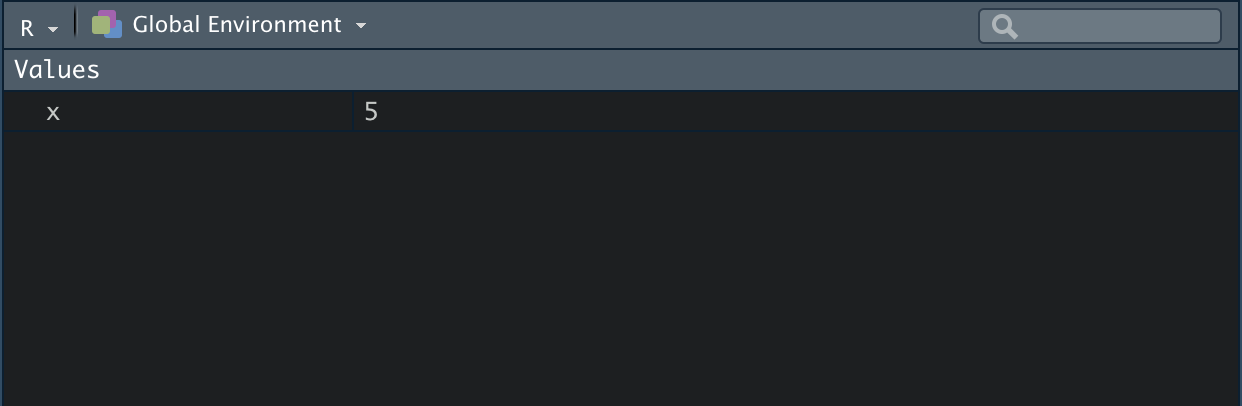
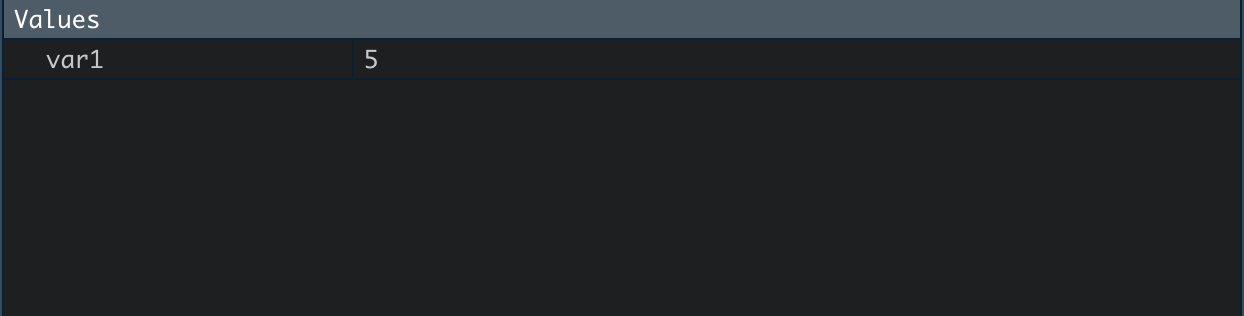
V1.0.5

Changed region(s): [[0.0, 0.0, 1.0, 0.2278], [0.2754, 0.2563, 0.306, 0.2848], [0.0306, 0.2563, 0.0612, 0.2848]]

diff --git a/docs/datenverarbeitung.html b/docs/datenverarbeitung.html
@@ -189,8 +189,8 @@ code span.wa { color: #60a0b0; font-weight: bold; font-style: italic; } /* Warni
 <li class="chapter" data-level="3.3" data-path="datenverarbeitung.html"><a href="datenverarbeitung.html#transformation-und-manipulation-von-daten"><i class="fa fa-check"></i><b>3.3</b> Transformation und Manipulation von Daten</a>
 <ul>
 <li class="chapter" data-level="3.3.1" data-path="datenverarbeitung.html"><a href="datenverarbeitung.html#erster-blick-auf-den-datensatz"><i class="fa fa-check"></i><b>3.3.1</b> Erster Blick auf den Datensatz</a></li>
-<li class="chapter" data-level="3.3.2" data-path="datenverarbeitung.html"><a href="datenverarbeitung.html#datensätze-restrukturieren"><i class="fa fa-check"></i><b>3.3.2</b> Datensätze restrukturieren</a></li>
-<li class="chapter" data-level="3.3.3" data-path="datenverarbeitung.html"><a href="datenverarbeitung.html#pipe-operator"><i class="fa fa-check"></i><b>3.3.3</b> Pipe Operator</a></li>
+<li class="chapter" data-level="3.3.2" data-path="datenverarbeitung.html"><a href="datenverarbeitung.html#pipe-operator"><i class="fa fa-check"></i><b>3.3.2</b> Pipe Operator</a></li>
+<li class="chapter" data-level="3.3.3" data-path="datenverarbeitung.html"><a href="datenverarbeitung.html#datensätze-restrukturieren"><i class="fa fa-check"></i><b>3.3.3</b> Datensätze restrukturieren</a></li>
 <li class="chapter" data-level="3.3.4" data-path="datenverarbeitung.html"><a href="datenverarbeitung.html#daten-transformieren"><i class="fa fa-check"></i><b>3.3.4</b> Daten transformieren</a></li>
 <li class="chapter" data-level="3.3.5" data-path="datenverarbeitung.html"><a href="datenverarbeitung.html#daten-manipulieren"><i class="fa fa-check"></i><b>3.3.5</b> Daten manipulieren</a></li>
 </ul></li>
@@ -244,7 +244,7 @@ allbus2018 &lt;- read_stata(&quot;Datensatz.dta&quot;)
 # SAS
 allbus2018 &lt;- read_sas(&quot;Datensatz.sas&quot;)</code></pre>
 <p><strong>Anmerkung:</strong> Sollten Sie andere Dateiformate nutzen wollen, bieten sich zudem die Packete <code>haven</code>, <code>readxl</code> und <code>readr</code> an.</p>
-<p>Die Funktion <code>read_spss</code> besitzt drei für uns relevante Argumente. Einen Überblick über die möglichen Argumente finden Sie unter: <code>?read_spss</code>.</p>
+<p>Die Funktion <code>read_spss</code> besitzt drei für uns relevante Argumente. Einen Überblick über die möglichen Argumente findet sich unter: <code>?read_spss</code>.</p>
 <ul>
 <li><code>atomic.to.fac</code> = <code>TRUE</code> &gt; Alle Variablen mit beschrifteten Ausprägungsmerkmalen werden zu Faktoren konvertiert. Für uns ist dieses Argument offensichtlich unbrauchbar, da wir viele Items vom Likert-Typ im Allbus 2018 vorfinden und diese als pseudo-metrisch behandeln wollen.</li>
 <li><code>drop.labels</code> = <code>TRUE</code> &gt; Alle Ausprägungsmerkmale ohne Fälle werden gelöscht. Eine nützliche Funktion, sofern wir nicht mit fehlenden Werten arbeiten möchten. Durch <code>read_spss()</code> über das Packet sjlabelled wurden ohnehin alle vormalig fehlenden Werte zu <code>NA</code> konvertiert. So können wir die überflüssigen Ausprägungsmerkmale einfach löschen.</li>
@@ -281,9 +281,13 @@ allbus2018 &lt;- read_sas(&quot;Datensatz.sas&quot;)</code></pre>
 <span id="cb47-6"><a href="datenverarbeitung.html#cb47-6" aria-hidden="true" tabindex="-1"></a></span>
 <span id="cb47-7"><a href="datenverarbeitung.html#cb47-7" aria-hidden="true" tabindex="-1"></a><span class="co">#Ganzer Datensatz</span></span>
 <span id="cb47-8"><a href="datenverarbeitung.html#cb47-8" aria-hidden="true" tabindex="-1"></a><span class="fu">print</span>(allbus2018)</span></code></pre></div>
+<p>Die Anwendung unserer Grundfunktionen hat gegenwärtig noch den großen Nachteil, dass R versucht alle Variablen unseres Datensatzes abzubilden. Um das in den Griff zu bekommen, wollen wir uns in den folgenden Kapiteln mit der Datensatztransformation und dann Datenmanipulation beschäftigen.</p>
 </div>
-<div id="datensätze-restrukturieren" class="section level3" number="3.3.2">
-<h3><span class="header-section-number">3.3.2</span> Datensätze restrukturieren</h3>
+<div id="pipe-operator" class="section level3" number="3.3.2">
+<h3><span class="header-section-number">3.3.2</span> Pipe Operator</h3>
+</div>
+<div id="datensätze-restrukturieren" class="section level3" number="3.3.3">
+<h3><span class="header-section-number">3.3.3</span> Datensätze restrukturieren</h3>
 <p>R verspricht eine enorme Flexibilität im Umgang mit Daten. Unmittelbar spürbar wird dieser Umstand in der Reorganisation von Datensätzen in neuen Objekten. So wollen wir im ersten Schritt lernen, wie wir die für uns relevanten Daten in einem neuen Datensatz speichern können. Hierfür benötigen wir die folgende Funktionen:</p>
 <table>
 <thead>
@@ -297,7 +301,7 @@ allbus2018 &lt;- read_sas(&quot;Datensatz.sas&quot;)</code></pre>
 <tr class="odd">
 <td align="left">dplyr</td>
 <td align="left">filter()</td>
-<td align="left">Umbenennen von Variablen</td>
+<td align="left">Filtern nach Fällen mit spezifischer Ausprägung</td>
 </tr>
 <tr class="even">
 <td align="left">dplyr</td>
@@ -306,24 +310,16 @@ allbus2018 &lt;- read_sas(&quot;Datensatz.sas&quot;)</code></pre>
 </tr>
 <tr class="odd">
 <td align="left">dplyr</td>
-<td align="left">rename()</td>
-<td align="left">Umbenennen von Variablen</td>
-</tr>
-<tr class="even">
-<td align="left">dplyr</td>
-<td align="left">mutate()</td>
-<td align="left">Erstellen und verändern von vorhandenen Variablen</td>
-</tr>
-<tr class="odd">
-<td align="left">dplyr</td>
 <td align="left">arrange()</td>
 <td align="left">Sortiert Datensatz nach bestimmter Variable</td>
 </tr>
+<tr class="even">
+<td align="left">dplyr</td>
+<td align="left">distinct()</td>
+<td align="left">Auswahl einzigartiger Werte</td>
+</tr>
 </tbody>
 </table>
-</div>
-<div id="pipe-operator" class="section level3" number="3.3.3">
-<h3><span class="header-section-number">3.3.3</span> Pipe Operator</h3>
 </div>
 <div id="daten-transformieren" class="section level3" number="3.3.4">
 <h3><span class="header-section-number">3.3.4</span> Daten transformieren</h3>
@@ -347,6 +343,16 @@ allbus2018 &lt;- read_sas(&quot;Datensatz.sas&quot;)</code></pre>
 <tbody>
 <tr class="odd">
 <td align="left">dplyr</td>
+<td align="left">rename()</td>
+<td align="left">Umbenennen von Variablen</td>
+</tr>
+<tr class="even">
+<td align="left">dplyr</td>
+<td align="left">mutate()</td>
+<td align="left">Erstellen und verändern von vorhandenen Variablen</td>
+</tr>
+<tr class="odd">
+<td align="left">dplyr</td>
 <td align="left">group_by()</td>
 <td align="left">Erstellt Gruppen (Teilmengen)</td>
 </tr>
@@ -357,55 +363,50 @@ allbus2018 &lt;- read_sas(&quot;Datensatz.sas&quot;)</code></pre>
 </tr>
 <tr class="odd">
 <td align="left">dplyr</td>
-<td align="left">distinct()</td>
-<td align="left">Auswahl einzigartiger Werte</td>
+<td align="left">case_when()</td>
+<td align="left">Vektorisierter if-Befehl</td>
 </tr>
 <tr class="even">
-<td align="left">dplyr</td>
-<td align="left">case_when()</td>
-<td align="left">Vektorisierter if_else Befehl</td>
-</tr>
-<tr class="odd">
 <td align="left">sjmisc</td>
 <td align="left">rec()</td>
 <td align="left">Rekodierung von Variablen</td>
 </tr>
-<tr class="even">
+<tr class="odd">
 <td align="left">sjmisc</td>
 <td align="left">std()</td>
 <td align="left">Z-Standardisierung von Variablen</td>
 </tr>
-<tr class="odd">
+<tr class="even">
 <td align="left">sjmisc</td>
 <td align="left">center()</td>
 <td align="left">Zentrierung von Variablen am Mittelwert</td>
 </tr>
-<tr class="even">
+<tr class="odd">
 <td align="left">sjmisc</td>
 <td align="left">split_var()</td>
 <td align="left">Aufspaltung von Variablen in n Gruppen</td>
 </tr>
-<tr class="odd">
+<tr class="even">
 <td align="left">sjmisc</td>
 <td align="left">group_var()</td>
 <td align="left">Aufspaltung von Variablen in Gruppen gleicher Spannweite</td>
 </tr>
-<tr class="even">
+<tr class="odd">
 <td align="left">sjmisc</td>
 <td align="left">row_count()</td>
 <td align="left">Zählung von Zeilenwerten</td>
 </tr>
-<tr class="odd">
+<tr class="even">
 <td align="left">sjmisc</td>
 <td align="left">col_count()</td>
 <td align="left">Zählung von Spaltenweten</td>
 </tr>
-<tr class="even">
+<tr class="odd">
 <td align="left">sjmisc</td>
 <td align="left">row_sums()</td>
 <td align="left">Summe der Zeilenwerte</td>
 </tr>
-<tr class="odd">
+<tr class="even">
 <td align="left">sjmisc</td>
 <td align="left">row_means()</td>
 <td align="left">Mittelwert der Zeilenwerte</td>

diff --git a/docs/rstudio.html b/docs/rstudio.html
@@ -189,8 +189,8 @@ code span.wa { color: #60a0b0; font-weight: bold; font-style: italic; } /* Warni
 <li class="chapter" data-level="3.3" data-path="datenverarbeitung.html"><a href="datenverarbeitung.html#transformation-und-manipulation-von-daten"><i class="fa fa-check"></i><b>3.3</b> Transformation und Manipulation von Daten</a>
 <ul>
 <li class="chapter" data-level="3.3.1" data-path="datenverarbeitung.html"><a href="datenverarbeitung.html#erster-blick-auf-den-datensatz"><i class="fa fa-check"></i><b>3.3.1</b> Erster Blick auf den Datensatz</a></li>
-<li class="chapter" data-level="3.3.2" data-path="datenverarbeitung.html"><a href="datenverarbeitung.html#datensätze-restrukturieren"><i class="fa fa-check"></i><b>3.3.2</b> Datensätze restrukturieren</a></li>
-<li class="chapter" data-level="3.3.3" data-path="datenverarbeitung.html"><a href="datenverarbeitung.html#pipe-operator"><i class="fa fa-check"></i><b>3.3.3</b> Pipe Operator</a></li>
+<li class="chapter" data-level="3.3.2" data-path="datenverarbeitung.html"><a href="datenverarbeitung.html#pipe-operator"><i class="fa fa-check"></i><b>3.3.2</b> Pipe Operator</a></li>
+<li class="chapter" data-level="3.3.3" data-path="datenverarbeitung.html"><a href="datenverarbeitung.html#datensätze-restrukturieren"><i class="fa fa-check"></i><b>3.3.3</b> Datensätze restrukturieren</a></li>
 <li class="chapter" data-level="3.3.4" data-path="datenverarbeitung.html"><a href="datenverarbeitung.html#daten-transformieren"><i class="fa fa-check"></i><b>3.3.4</b> Daten transformieren</a></li>
 <li class="chapter" data-level="3.3.5" data-path="datenverarbeitung.html"><a href="datenverarbeitung.html#daten-manipulieren"><i class="fa fa-check"></i><b>3.3.5</b> Daten manipulieren</a></li>
 </ul></li>
@@ -335,8 +335,8 @@ library(&quot;easystats&quot;)</code></pre>
 <p>Der Output erscheint wie gewohnt in der Konsole.</p>
 <p>Im nächsten Schritt definieren wir das Ergebnis unserer mathematischen Operation als Variable (Objekt), um es für folgende Anwendungen nutzen zu können.</p>
 <div class="sourceCode" id="cb16"><pre class="sourceCode r"><code class="sourceCode r"><span id="cb16-1"><a href="rstudio.html#cb16-1" aria-hidden="true" tabindex="-1"></a>var1 <span class="ot">&lt;-</span> <span class="dv">2</span><span class="sc">+</span><span class="dv">3</span></span></code></pre></div>
-<p>Damit haben wir unsere gewünschte Variable (Objekt) mit der Bezichnung <em>x</em> definiert.</p>
-<p>Wichtig ist für uns erstmal, dass wir unsere definierten Variablen im <code>Environment</code> sehen können. x wird folgend mit dem Wert 5 angezeigt.</p>
+<p>Damit haben wir unsere gewünschte Variable (Objekt) mit der Bezeichnung <em>var1</em> definiert.</p>
+<p>Wichtig ist für uns erstmal, dass wir unsere definierten Variablen im <code>Environment</code> sehen können. var1 wird folgend mit dem Wert 5 angezeigt.</p>
 <p><img src="Bilder/Environmentoutput.png" width="75%" style="display: block; margin: auto;" /></p>
 </div>
 <div id="tab-completion" class="section level3" number="1.8.3">

diff --git a/docs/index.html b/docs/index.html
@@ -189,8 +189,8 @@ code span.wa { color: #60a0b0; font-weight: bold; font-style: italic; } /* Warni
 <li class="chapter" data-level="3.3" data-path="datenverarbeitung.html"><a href="datenverarbeitung.html#transformation-und-manipulation-von-daten"><i class="fa fa-check"></i><b>3.3</b> Transformation und Manipulation von Daten</a>
 <ul>
 <li class="chapter" data-level="3.3.1" data-path="datenverarbeitung.html"><a href="datenverarbeitung.html#erster-blick-auf-den-datensatz"><i class="fa fa-check"></i><b>3.3.1</b> Erster Blick auf den Datensatz</a></li>
-<li class="chapter" data-level="3.3.2" data-path="datenverarbeitung.html"><a href="datenverarbeitung.html#datensätze-restrukturieren"><i class="fa fa-check"></i><b>3.3.2</b> Datensätze restrukturieren</a></li>
-<li class="chapter" data-level="3.3.3" data-path="datenverarbeitung.html"><a href="datenverarbeitung.html#pipe-operator"><i class="fa fa-check"></i><b>3.3.3</b> Pipe Operator</a></li>
+<li class="chapter" data-level="3.3.2" data-path="datenverarbeitung.html"><a href="datenverarbeitung.html#pipe-operator"><i class="fa fa-check"></i><b>3.3.2</b> Pipe Operator</a></li>
+<li class="chapter" data-level="3.3.3" data-path="datenverarbeitung.html"><a href="datenverarbeitung.html#datensätze-restrukturieren"><i class="fa fa-check"></i><b>3.3.3</b> Datensätze restrukturieren</a></li>
 <li class="chapter" data-level="3.3.4" data-path="datenverarbeitung.html"><a href="datenverarbeitung.html#daten-transformieren"><i class="fa fa-check"></i><b>3.3.4</b> Daten transformieren</a></li>
 <li class="chapter" data-level="3.3.5" data-path="datenverarbeitung.html"><a href="datenverarbeitung.html#daten-manipulieren"><i class="fa fa-check"></i><b>3.3.5</b> Daten manipulieren</a></li>
 </ul></li>

diff --git a/docs/programmiersprache-r.html b/docs/programmiersprache-r.html
@@ -189,8 +189,8 @@ code span.wa { color: #60a0b0; font-weight: bold; font-style: italic; } /* Warni
 <li class="chapter" data-level="3.3" data-path="datenverarbeitung.html"><a href="datenverarbeitung.html#transformation-und-manipulation-von-daten"><i class="fa fa-check"></i><b>3.3</b> Transformation und Manipulation von Daten</a>
 <ul>
 <li class="chapter" data-level="3.3.1" data-path="datenverarbeitung.html"><a href="datenverarbeitung.html#erster-blick-auf-den-datensatz"><i class="fa fa-check"></i><b>3.3.1</b> Erster Blick auf den Datensatz</a></li>
-<li class="chapter" data-level="3.3.2" data-path="datenverarbeitung.html"><a href="datenverarbeitung.html#datensätze-restrukturieren"><i class="fa fa-check"></i><b>3.3.2</b> Datensätze restrukturieren</a></li>
-<li class="chapter" data-level="3.3.3" data-path="datenverarbeitung.html"><a href="datenverarbeitung.html#pipe-operator"><i class="fa fa-check"></i><b>3.3.3</b> Pipe Operator</a></li>
+<li class="chapter" data-level="3.3.2" data-path="datenverarbeitung.html"><a href="datenverarbeitung.html#pipe-operator"><i class="fa fa-check"></i><b>3.3.2</b> Pipe Operator</a></li>
+<li class="chapter" data-level="3.3.3" data-path="datenverarbeitung.html"><a href="datenverarbeitung.html#datensätze-restrukturieren"><i class="fa fa-check"></i><b>3.3.3</b> Datensätze restrukturieren</a></li>
 <li class="chapter" data-level="3.3.4" data-path="datenverarbeitung.html"><a href="datenverarbeitung.html#daten-transformieren"><i class="fa fa-check"></i><b>3.3.4</b> Daten transformieren</a></li>
 <li class="chapter" data-level="3.3.5" data-path="datenverarbeitung.html"><a href="datenverarbeitung.html#daten-manipulieren"><i class="fa fa-check"></i><b>3.3.5</b> Daten manipulieren</a></li>
 </ul></li>
